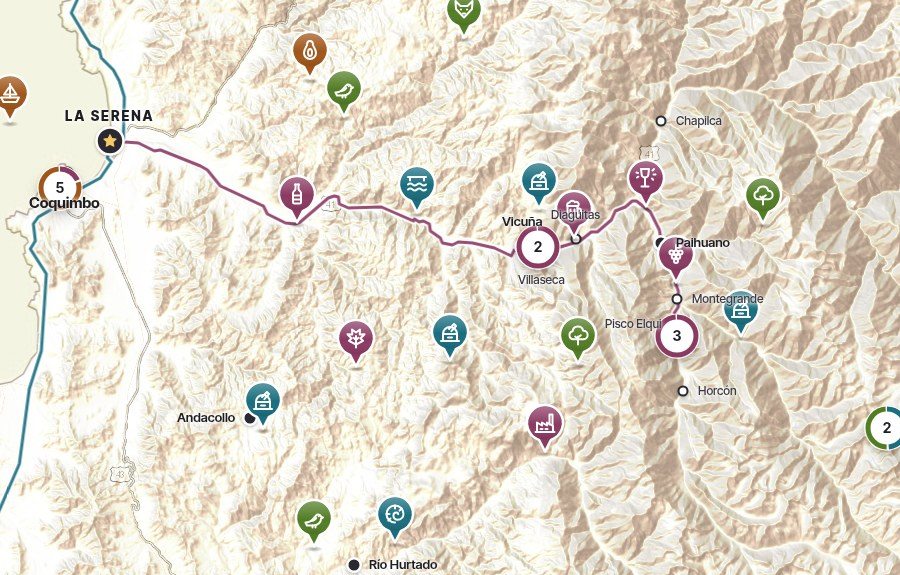
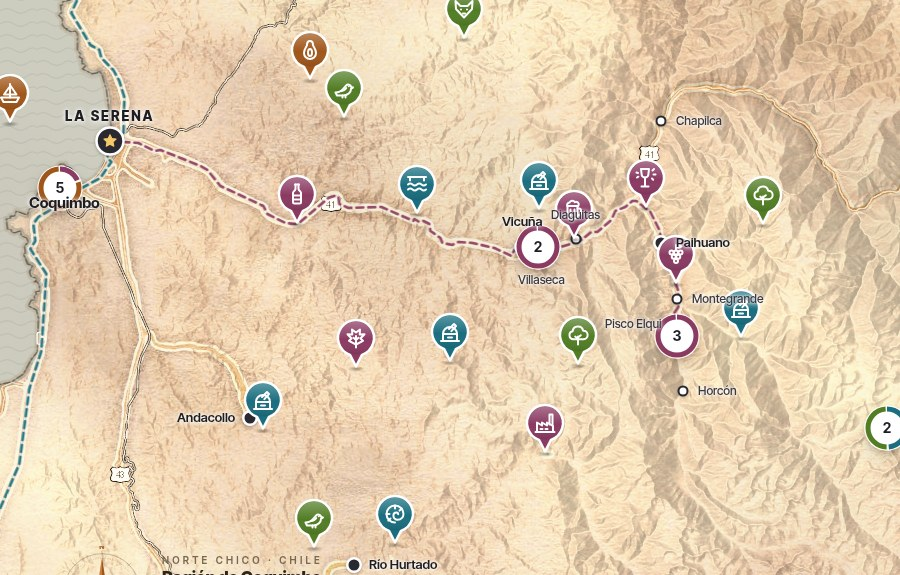
Fondo rústico

diff --git a/sea.js b/sea.js
@@ -1,0 +1,1 @@
+window.SEA=[[[-28.2832,-71.5175],[-29.1832,-71.4975],[-29.1848,-71.4982],[-29.1873,-71.4948],[-29.19,-71.4958],[-29.1937,-71.4911],[-29.1972,-71.4937],[-29.1993,-71.491],[-29.2019,-71.4913],[-29.2018,-71.4878],[-29.2034,-71.4862],[-29.206,-71.4869],[-29.2074,-71.4829],[-29.2103,-71.4853],[-29.2086,-71.4827],[-29.21,-71.4793],[-29.2165,-71.4715],[-29.2247,-71.4648],[-29.2342,-71.4632],[-29.2408,-71.4652],[-29.2433,-71.4639],[-29.2465,-71.4682],[-29.2492,-71.4691],[-29.2489,-71.4651],[-29.2507,-71.4613],[-29.2554,-71.4604],[-29.2564,-71.4585],[-29.2554,-71.4555],[-29.2569,-71.4535],[-29.2557,-71.4516],[-29.256,-71.4456],[-29.2535,-71.4423],[-29.2538,-71.4389],[-29.2718,-71.4083],[-29.2967,-71.3752],[-29.317,-71.3514],[-29.3317,-71.3369],[-29.3466,-71.3267],[-29.3523,-71.33],[-29.3577,-71.337],[-29.3574,-71.3359],[-29.3602,-71.3364],[-29.3624,-71.3291],[-29.3654,-71.3284],[-29.3757,-71.3339],[-29.3836,-71.3308],[-29.3877,-71.3348],[-29.3925,-71.3355],[-29.4011,-71.3404],[-29.4035,-71.3351],[-29.4,-71.3276],[-29.4027,-71.3249],[-29.405,-71.3245],[-29.4106,-71.3289],[-29.4162,-71.3271],[-29.4164,-71.3247],[-29.4222,-71.3248],[-29.422,-71.323],[-29.4157,-71.3197],[-29.4164,-71.3179],[-29.4147,-71.3127],[-29.4184,-71.3077],[-29.4242,-71.3099],[-29.4256,-71.3079],[-29.4282,-71.3087],[-29.4311,-71.3064],[-29.4358,-71.3059],[-29.4395,-71.3076],[-29.4423,-71.3057],[-29.4448,-71.3062],[-29.4488,-71.3035],[-29.4509,-71.3046],[-29.4497,-71.308],[-29.451,-71.3093],[-29.4495,-71.3119],[-29.4502,-71.3148],[-29.4482,-71.3167],[-29.4509,-71.3163],[-29.4558,-71.3107],[-29.4583,-71.3121],[-29.4616,-71.3093],[-29.4644,-71.3131],[-29.4635,-71.3183],[-29.4658,-71.3159],[-29.4685,-71.3161],[-29.4697,-71.313],[-29.4727,-71.312],[-29.4738,-71.3087],[-29.4759,-71.3083],[-29.4799,-71.3103],[-29.4787,-71.3132],[-29.4798,-71.3153],[-29.4832,-71.3146],[-29.4846,-71.3171],[-29.4888,-71.317],[-29.4923,-71.3248],[-29.4894,-71.3342],[-29.4912,-71.3364],[-29.5005,-71.335],[-29.5021,-71.3334],[-29.5012,-71.3312],[-29.5061,-71.3285],[-29.5073,-71.3306],[-29.5103,-71.3301],[-29.5104,-71.3314],[-29.5152,-71.3289],[-29.5186,-71.3313],[-29.5387,-71.3256],[-29.5425,-71.3279],[-29.5508,-71.3282],[-29.5547,-71.3346],[-29.557,-71.3267],[-29.5603,-71.3262],[-29.5625,-71.3233],[-29.568,-71.3252],[-29.5683,-71.3235],[-29.5724,-71.3226],[-29.5791,-71.3184],[-29.5855,-71.3091],[-29.5903,-71.3108],[-29.591,-71.3058],[-29.5974,-71.3007],[-29.5989,-71.2975],[-29.5983,-71.2948],[-29.6014,-71.2921],[-29.6072,-71.2886],[-29.6195,-71.2869],[-29.6222,-71.2879],[-29.6233,-71.2958],[-29.627,-71.2974],[-29.6281,-71.3014],[-29.6321,-71.3017],[-29.6341,-71.3001],[-29.6353,-71.3023],[-29.6389,-71.3027],[-29.6406,-71.3064],[-29.6446,-71.3069],[-29.6442,-71.3136],[-29.6415,-71.3171],[-29.6453,-71.3176],[-29.647,-71.3203],[-29.6482,-71.3169],[-29.6475,-71.3136],[-29.6491,-71.3118],[-29.6555,-71.314],[-29.6563,-71.3169],[-29.6593,-71.3149],[-29.6592,-71.3161],[-29.6599,-71.3151],[-29.6628,-71.3171],[-29.666,-71.3169],[-29.6661,-71.3183],[-29.6677,-71.3155],[-29.6692,-71.3157],[-29.6727,-71.3222],[-29.6776,-71.3193],[-29.6819,-71.321],[-29.6843,-71.3197],[-29.691,-71.3243],[-29.6913,-71.3223],[-29.6986,-71.3184],[-29.702,-71.322],[-29.701,-71.3279],[-29.7027,-71.3269],[-29.7061,-71.3302],[-29.7103,-71.3297],[-29.7114,-71.3263],[-29.7149,-71.3242],[-29.7219,-71.3243],[-29.7256,-71.3285],[-29.7335,-71.3261],[-29.7337,-71.3281],[-29.7376,-71.3294],[-29.7408,-71.3398],[-29.7438,-71.3397],[-29.7447,-71.3419],[-29.7466,-71.3423],[-29.7504,-71.3408],[-29.7541,-71.3415],[-29.7555,-71.3453],[-29.7587,-71.3437],[-29.761,-71.3399],[-29.7677,-71.3411],[-29.7701,-71.3398],[-29.7695,-71.3379],[-29.7719,-71.3363],[-29.7725,-71.3332],[-29.7743,-71.3338],[-29.7741,-71.3312],[-29.7764,-71.3272],[-29.7746,-71.322],[-29.778,-71.321],[-29.7787,-71.3191],[-29.7913,-71.3204],[-29.7944,-71.3192],[-29.7949,-71.3175],[-29.7983,-71.3192],[-29.8022,-71.3153],[-29.8062,-71.3162],[-29.8082,-71.3124],[-29.8114,-71.3139],[-29.8127,-71.312],[-29.814,-71.3132],[-29.8143,-71.3095],[-29.8164,-71.3082],[-29.8199,-71.3119],[-29.8229,-71.3083],[-29.8246,-71.2999],[-29.8261,-71.2989],[-29.8249,-71.2921],[-29.8224,-71.2892],[-29.8285,-71.2846],[-29.8449,-71.2787],[-29.8936,-71.2731],[-29.916,-71.2756],[-29.9276,-71.2792],[-29.9415,-71.2876],[-29.9508,-71.2975],[-29.9585,-71.3135],[-29.96,-71.3212],[-29.9587,-71.3347],[-29.9337,-71.3356],[-29.9327,-71.3377],[-29.9347,-71.34],[-29.9337,-71.3429],[-29.9366,-71.3476],[-29.9395,-71.3487],[-29.9395,-71.3528],[-29.9438,-71.3525],[-29.9507,-71.3581],[-29.9499,-71.3616],[-29.952,-71.3618],[-29.9524,-71.365],[-29.9557,-71.3612],[-29.96,-71.362],[-29.961,-71.3637],[-29.9616,-71.3624],[-29.9647,-71.3628],[-29.967,-71.3576],[-29.9659,-71.3537],[-29.9674,-71.3498],[-29.9726,-71.3536],[-29.9693,-71.3507],[-29.974,-71.3471],[-29.9802,-71.3508],[-29.9838,-71.3572],[-29.9826,-71.3608],[-29.9838,-71.3618],[-29.9836,-71.3654],[-29.969,-71.3686],[-29.967,-71.3728],[-29.9737,-71.3768],[-29.9746,-71.3793],[-29.9856,-71.379],[-29.9868,-71.3853],[-29.9939,-71.3877],[-29.9944,-71.3893],[-29.9897,-71.4035],[-29.9956,-71.4054],[-29.9952,-71.4111],[-29.9959,-71.4101],[-29.9982,-71.4118],[-29.999,-71.4169],[-30.0106,-71.4153],[-30.0117,-71.4097],[-30.0148,-71.4093],[-30.0161,-71.4061],[-30.0135,-71.3976],[-30.0193,-71.3962],[-30.0221,-71.3886],[-30.0263,-71.3868],[-30.0306,-71.3913],[-30.0389,-71.3909],[-30.0411,-71.3935],[-30.0443,-71.3905],[-30.0469,-71.3908],[-30.0499,-71.3873],[-30.0522,-71.3875],[-30.0545,-71.3815],[-30.0582,-71.3818],[-30.0624,-71.3847],[-30.0653,-71.384],[-30.0678,-71.3821],[-30.0686,-71.3772],[-30.0714,-71.3759],[-30.0732,-71.3771],[-30.0722,-71.3782],[-30.0743,-71.3787],[-30.0736,-71.3745],[-30.0784,-71.3714],[-30.0847,-71.3716],[-30.0856,-71.3763],[-30.0877,-71.3754],[-30.0903,-71.3784],[-30.0954,-71.3777],[-30.0948,-71.3823],[-30.096,-71.3841],[-30.1019,-71.3863],[-30.1039,-71.3837],[-30.1045,-71.3779],[-30.1069,-71.3752],[-30.1163,-71.3725],[-30.1409,-71.3724],[-30.1566,-71.3743],[-30.1653,-71.382],[-30.1678,-71.3821],[-30.1831,-71.3937],[-30.1928,-71.4101],[-30.1956,-71.4301],[-30.1874,-71.4339],[-30.1866,-71.4364],[-30.183,-71.4393],[-30.1816,-71.4437],[-30.1731,-71.4447],[-30.1655,-71.4486],[-30.1748,-71.4508],[-30.1749,-71.4555],[-30.1786,-71.4561],[-30.1783,-71.462],[-30.1826,-71.4578],[-30.1864,-71.4596],[-30.1909,-71.4569],[-30.1955,-71.4618],[-30.1965,-71.4685],[-30.199,-71.4697],[-30.2005,-71.4725],[-30.1983,-71.4762],[-30.1997,-71.48],[-30.2058,-71.4759],[-30.2083,-71.4775],[-30.2085,-71.4816],[-30.2106,-71.4828],[-30.2138,-71.4793],[-30.2198,-71.4823],[-30.2198,-71.4787],[-30.2229,-71.4768],[-30.2292,-71.4794],[-30.2321,-71.4777],[-30.238,-71.4795],[-30.2405,-71.4777],[-30.2433,-71.4786],[-30.2494,-71.4837],[-30.2529,-71.4894],[-30.2534,-71.4935],[-30.2511,-71.4945],[-30.2482,-71.5016],[-30.2502,-71.507],[-30.253,-71.5074],[-30.2537,-71.5095],[-30.2566,-71.5066],[-30.2551,-71.5016],[-30.256,-71.4968],[-30.2633,-71.4947],[-30.272,-71.4982],[-30.2801,-71.5057],[-30.2884,-71.5175],[-30.2975,-71.5398],[-30.3011,-71.5598],[-30.3028,-71.5815],[-30.3021,-71.5957],[-30.2984,-71.6074],[-30.2897,-71.6083],[-30.2848,-71.6114],[-30.2792,-71.6099],[-30.2719,-71.6157],[-30.2692,-71.6144],[-30.2583,-71.6184],[-30.2551,-71.6172],[-30.2452,-71.6193],[-30.2425,-71.6249],[-30.2373,-71.6273],[-30.2418,-71.6298],[-30.2429,-71.6329],[-30.2478,-71.6361],[-30.2488,-71.6351],[-30.2577,-71.6401],[-30.2604,-71.6389],[-30.2634,-71.6412],[-30.2647,-71.6454],[-30.2672,-71.6477],[-30.2668,-71.6495],[-30.2686,-71.6492],[-30.2736,-71.6533],[-30.2819,-71.6544],[-30.2874,-71.6578],[-30.2924,-71.6563],[-30.3053,-71.6579],[-30.3057,-71.6635],[-30.3109,-71.6673],[-30.3134,-71.6651],[-30.3141,-71.6663],[-30.3222,-71.6652],[-30.3241,-71.6666],[-30.328,-71.6653],[-30.335,-71.6662],[-30.3397,-71.6707],[-30.3414,-71.6692],[-30.3438,-71.6711],[-30.3455,-71.6696],[-30.3461,-71.6724],[-30.3521,-71.6745],[-30.3466,-71.6787],[-30.3476,-71.6801],[-30.3554,-71.6815],[-30.3569,-71.6787],[-30.3592,-71.6791],[-30.361,-71.6717],[-30.3652,-71.6692],[-30.3672,-71.671],[-30.3672,-71.6756],[-30.3691,-71.6737],[-30.3726,-71.6784],[-30.3815,-71.6797],[-30.382,-71.6813],[-30.3853,-71.6786],[-30.3858,-71.6832],[-30.3868,-71.6821],[-30.3899,-71.6833],[-30.391,-71.681],[-30.3935,-71.6835],[-30.3945,-71.6811],[-30.3997,-71.6876],[-30.4037,-71.6877],[-30.4049,-71.6905],[-30.4093,-71.6896],[-30.4098,-71.6837],[-30.4117,-71.6844],[-30.4129,-71.6818],[-30.4155,-71.6817],[-30.4322,-71.687],[-30.4371,-71.6902],[-30.437,-71.6888],[-30.4396,-71.6876],[-30.4429,-71.6878],[-30.4465,-71.6904],[-30.4505,-71.6887],[-30.4581,-71.691],[-30.4621,-71.6878],[-30.4641,-71.6893],[-30.4653,-71.6884],[-30.4679,-71.6914],[-30.4731,-71.6931],[-30.4778,-71.6998],[-30.4786,-71.6957],[-30.4871,-71.6974],[-30.4884,-71.6937],[-30.4924,-71.694],[-30.4936,-71.6913],[-30.4973,-71.689],[-30.5018,-71.6909],[-30.5074,-71.6897],[-30.5088,-71.6916],[-30.5188,-71.6948],[-30.5258,-71.6923],[-30.5444,-71.6942],[-30.547,-71.6963],[-30.5505,-71.7046],[-30.5549,-71.7057],[-30.558,-71.7031],[-30.5648,-71.7082],[-30.5696,-71.7068],[-30.5725,-71.7093],[-30.5788,-71.711],[-30.5853,-71.7098],[-30.5871,-71.7119],[-30.5889,-71.7107],[-30.5931,-71.7117],[-30.5963,-71.7161],[-30.5983,-71.716],[-30.598,-71.7145],[-30.5993,-71.7139],[-30.6017,-71.7175],[-30.6109,-71.7115],[-30.6244,-71.7093],[-30.6263,-71.7124],[-30.6294,-71.7093],[-30.6372,-71.7072],[-30.6394,-71.7117],[-30.6416,-71.7114],[-30.65,-71.716],[-30.6528,-71.7126],[-30.6543,-71.7142],[-30.658,-71.712],[-30.6621,-71.7122],[-30.6626,-71.7089],[-30.668,-71.7081],[-30.6761,-71.7005],[-30.6802,-71.7025],[-30.6836,-71.7006],[-30.685,-71.7014],[-30.6858,-71.6991],[-30.6959,-71.6993],[-30.6994,-71.6976],[-30.7011,-71.6994],[-30.7019,-71.7055],[-30.7044,-71.7067],[-30.7064,-71.7051],[-30.7081,-71.7074],[-30.7137,-71.7078],[-30.7146,-71.71],[-30.7136,-71.7121],[-30.7159,-71.715],[-30.7167,-71.7135],[-30.7188,-71.7143],[-30.7182,-71.7114],[-30.7193,-71.7104],[-30.7222,-71.7112],[-30.7245,-71.7089],[-30.7257,-71.71],[-30.7265,-71.7072],[-30.7289,-71.7084],[-30.7298,-71.701],[-30.7288,-71.7002],[-30.7318,-71.6986],[-30.7347,-71.6985],[-30.7351,-71.7012],[-30.737,-71.7026],[-30.7398,-71.7013],[-30.7486,-71.7034],[-30.7496,-71.7054],[-30.7533,-71.7016],[-30.7556,-71.7042],[-30.7573,-71.7032],[-30.7613,-71.7046],[-30.7655,-71.7077],[-30.7678,-71.7041],[-30.7727,-71.707],[-30.7853,-71.7054],[-30.7904,-71.7078],[-30.7921,-71.7046],[-30.7946,-71.7045],[-30.799,-71.7012],[-30.8066,-71.7037],[-30.8077,-71.7027],[-30.807,-71.7006],[-30.8134,-71.6977],[-30.8168,-71.6984],[-30.8215,-71.6954],[-30.8289,-71.6975],[-30.8339,-71.6946],[-30.8365,-71.6961],[-30.8451,-71.694],[-30.8497,-71.6886],[-30.8528,-71.6895],[-30.8599,-71.685],[-30.8661,-71.6848],[-30.8699,-71.6822],[-30.878,-71.682],[-30.8785,-71.6855],[-30.8826,-71.6885],[-30.8854,-71.6856],[-30.8849,-71.6818],[-30.887,-71.6794],[-30.8911,-71.6813],[-30.8981,-71.6782],[-30.9015,-71.6817],[-30.9097,-71.6841],[-30.9182,-71.6821],[-30.9215,-71.6835],[-30.9235,-71.6804],[-30.9279,-71.6813],[-30.9307,-71.6796],[-30.9309,-71.6761],[-30.9286,-71.6724],[-30.9302,-71.6705],[-30.9412,-71.6655],[-30.9471,-71.6656],[-30.9494,-71.6625],[-30.9518,-71.6639],[-30.9574,-71.663],[-30.9582,-71.6598],[-30.9611,-71.6605],[-30.9691,-71.6536],[-30.9689,-71.6519],[-30.9742,-71.6523],[-30.9763,-71.6493],[-30.979,-71.6493],[-30.9835,-71.6526],[-30.9879,-71.6525],[-30.9892,-71.6492],[-30.991,-71.6513],[-30.9944,-71.6517],[-31.0008,-71.6481],[-31.0045,-71.6507],[-31.0069,-71.647],[-31.0115,-71.6458],[-31.0194,-71.6541],[-31.0214,-71.6538],[-31.0248,-71.6612],[-31.0285,-71.6625],[-31.032,-71.6617],[-31.0351,-71.665],[-31.0363,-71.6632],[-31.0403,-71.6648],[-31.0442,-71.6637],[-31.0547,-71.6646],[-31.0619,-71.6618],[-31.0683,-71.6638],[-31.0722,-71.6612],[-31.0746,-71.6629],[-31.0816,-71.6587],[-31.0819,-71.6549],[-31.084,-71.6524],[-31.0887,-71.654],[-31.0941,-71.6525],[-31.0988,-71.6578],[-31.0983,-71.6551],[-31.1016,-71.6516],[-31.1059,-71.6528],[-31.1082,-71.6503],[-31.1105,-71.6516],[-31.1119,-71.6602],[-31.1135,-71.6585],[-31.1192,-71.6608],[-31.122,-71.6554],[-31.124,-71.6589],[-31.1285,-71.6581],[-31.1315,-71.6622],[-31.1368,-71.6645],[-31.1373,-71.6664],[-31.1423,-71.6634],[-31.1461,-71.6632],[-31.1448,-71.6674],[-31.1429,-71.6688],[-31.1442,-71.6704],[-31.1481,-71.6682],[-31.1511,-71.6684],[-31.16,-71.6625],[-31.1623,-71.6627],[-31.1638,-71.6676],[-31.165,-71.6679],[-31.1815,-71.6618],[-31.1854,-71.6578],[-31.1876,-71.6579],[-31.1881,-71.6604],[-31.1894,-71.6601],[-31.1907,-71.6572],[-31.1894,-71.6555],[-31.1915,-71.6547],[-31.1914,-71.6533],[-31.1937,-71.6542],[-31.1937,-71.652],[-31.1959,-71.6522],[-31.198,-71.6499],[-31.2021,-71.6498],[-31.2023,-71.6532],[-31.2047,-71.6529],[-31.2117,-71.6486],[-31.2153,-71.6416],[-31.2176,-71.6428],[-31.2179,-71.6471],[-31.2208,-71.6471],[-31.222,-71.6444],[-31.2303,-71.6415],[-31.2325,-71.6433],[-31.2332,-71.6407],[-31.2405,-71.6414],[-31.2448,-71.6396],[-31.2512,-71.6342],[-31.254,-71.6346],[-31.2557,-71.6321],[-31.2608,-71.6347],[-31.2609,-71.6324],[-31.2635,-71.6315],[-31.2647,-71.6334],[-31.2709,-71.6352],[-31.2731,-71.6388],[-31.2841,-71.6388],[-31.2846,-71.6354],[-31.2883,-71.6339],[-31.293,-71.6369],[-31.2971,-71.6342],[-31.2994,-71.638],[-31.3013,-71.6382],[-31.3019,-71.6361],[-31.3034,-71.6373],[-31.3045,-71.6351],[-31.3067,-71.6356],[-31.3056,-71.6326],[-31.3083,-71.6322],[-31.3092,-71.628],[-31.3112,-71.6276],[-31.3101,-71.6257],[-31.3131,-71.6263],[-31.3127,-71.6239],[-31.3157,-71.6231],[-31.3157,-71.6203],[-31.319,-71.6193],[-31.3206,-71.6212],[-31.3243,-71.6218],[-31.3252,-71.6192],[-31.3241,-71.6174],[-31.3263,-71.6148],[-31.3343,-71.6175],[-31.3358,-71.6164],[-31.3365,-71.6185],[-31.3396,-71.6177],[-31.3418,-71.6196],[-31.3463,-71.6188],[-31.3492,-71.6215],[-31.3518,-71.6215],[-31.3553,-71.6185],[-31.3625,-71.621],[-31.3637,-71.6194],[-31.3675,-71.6198],[-31.3682,-71.6181],[-31.3694,-71.6201],[-31.3705,-71.6182],[-31.3711,-71.6194],[-31.3729,-71.6182],[-31.3738,-71.6207],[-31.3781,-71.6185],[-31.3804,-71.6207],[-31.383,-71.6172],[-31.385,-71.6178],[-31.3853,-71.6156],[-31.3881,-71.6181],[-31.3904,-71.6177],[-31.3911,-71.6197],[-31.3917,-71.6173],[-31.3933,-71.6186],[-31.3941,-71.6167],[-31.3956,-71.6176],[-31.3961,-71.6152],[-31.4027,-71.6119],[-31.4015,-71.6106],[-31.4033,-71.6037],[-31.4062,-71.6062],[-31.4101,-71.6038],[-31.4129,-71.6065],[-31.4151,-71.605],[-31.4165,-71.6064],[-31.4165,-71.6049],[-31.419,-71.6037],[-31.4196,-71.6069],[-31.4211,-71.6062],[-31.4224,-71.6031],[-31.4244,-71.6031],[-31.4225,-71.5933],[-31.4286,-71.5995],[-31.4316,-71.5996],[-31.4335,-71.5979],[-31.4346,-71.6005],[-31.4415,-71.5962],[-31.4447,-71.5906],[-31.4479,-71.5904],[-31.4495,-71.588],[-31.4563,-71.5901],[-31.457,-71.5938],[-31.4576,-71.5918],[-31.4607,-71.5924],[-31.4638,-71.5874],[-31.4663,-71.5881],[-31.4685,-71.5861],[-31.4722,-71.5872],[-31.4731,-71.5847],[-31.4766,-71.5856],[-31.4769,-71.5842],[-31.4812,-71.5833],[-31.483,-71.5798],[-31.4823,-71.5783],[-31.4868,-71.5752],[-31.4916,-71.5773],[-31.493,-71.5736],[-31.5003,-71.5696],[-31.5029,-71.5693],[-31.5056,-71.5715],[-31.5074,-71.5697],[-31.5091,-71.5709],[-31.5117,-71.5698],[-31.5119,-71.5734],[-31.5163,-71.5714],[-31.5202,-71.5762],[-31.5264,-71.574],[-31.5271,-71.5712],[-31.529,-71.5735],[-31.5323,-71.5728],[-31.5325,-71.5711],[-31.5365,-71.5721],[-31.5402,-71.5685],[-31.5441,-71.5709],[-31.5464,-71.5698],[-31.551,-71.5731],[-31.5591,-71.5695],[-31.5644,-71.5699],[-31.566,-71.5723],[-31.5687,-71.5708],[-31.5734,-71.5731],[-31.5838,-71.5728],[-31.5863,-71.5745],[-31.5869,-71.5779],[-31.5893,-71.5807],[-31.5945,-71.5817],[-31.5963,-71.5778],[-31.6026,-71.5733],[-31.6063,-71.5721],[-31.6091,-71.5746],[-31.612,-71.5691],[-31.6237,-71.5578],[-31.6271,-71.557],[-31.6285,-71.5599],[-31.6293,-71.5588],[-31.6309,-71.5602],[-31.6307,-71.5568],[-31.6335,-71.558],[-31.6348,-71.5553],[-31.6377,-71.5554],[-31.6414,-71.5522],[-31.6459,-71.5537],[-31.648,-71.5583],[-31.651,-71.5556],[-31.6568,-71.5553],[-31.6592,-71.5509],[-31.6665,-71.5557],[-31.666,-71.5505],[-31.6696,-71.5512],[-31.6703,-71.5498],[-31.6736,-71.5518],[-31.6778,-71.5487],[-31.6771,-71.5469],[-31.6825,-71.5477],[-31.6841,-71.5457],[-31.6877,-71.5458],[-31.6896,-71.5432],[-31.6919,-71.5468],[-31.6968,-71.5435],[-31.6991,-71.545],[-31.701,-71.543],[-31.7012,-71.5451],[-31.7025,-71.5435],[-31.7087,-71.5439],[-31.7103,-71.5412],[-31.712,-71.5433],[-31.717,-71.5439],[-31.7177,-71.5453],[-31.718,-71.5438],[-31.7186,-71.5452],[-31.7189,-71.5436],[-31.72,-71.5442],[-31.7198,-71.5427],[-31.7272,-71.542],[-31.7302,-71.5449],[-31.7343,-71.5442],[-31.739,-71.5461],[-31.7401,-71.545],[-31.7385,-71.538],[-31.7407,-71.5378],[-31.7415,-71.5358],[-31.7438,-71.5369],[-31.7462,-71.5353],[-31.7443,-71.5337],[-31.745,-71.5285],[-31.7485,-71.53],[-31.752,-71.5275],[-31.7511,-71.5227],[-31.7536,-71.5186],[-31.755,-71.5117],[-31.7602,-71.5068],[-31.7643,-71.508],[-31.7696,-71.5051],[-31.7731,-71.5069],[-31.7763,-71.5059],[-31.7824,-71.5103],[-31.7849,-71.5094],[-31.7853,-71.5143],[-31.7893,-71.5141],[-31.7895,-71.5159],[-31.7922,-71.5176],[-31.7923,-71.52],[-31.797,-71.516],[-31.8065,-71.5182],[-31.8121,-71.5233],[-31.8124,-71.5272],[-31.816,-71.5272],[-31.8165,-71.5288],[-31.823,-71.5299],[-31.8256,-71.5323],[-31.8281,-71.5353],[-31.8298,-71.5421],[-31.8367,-71.5417],[-31.8375,-71.543],[-31.8416,-71.5419],[-31.8465,-71.5479],[-31.8466,-71.5517],[-31.8432,-71.5571],[-31.8486,-71.5597],[-31.851,-71.5594],[-31.8521,-71.5572],[-31.854,-71.5582],[-31.8546,-71.5563],[-31.853,-71.555],[-31.8552,-71.5517],[-31.8538,-71.5478],[-31.8547,-71.54],[-31.8529,-71.534],[-31.8541,-71.5328],[-31.8538,-71.527],[-31.8496,-71.5261],[-31.8492,-71.5197],[-31.8526,-71.516],[-31.8625,-71.5188],[-31.8612,-71.5129],[-31.8623,-71.5127],[-31.8609,-71.5112],[-31.8709,-71.5006],[-31.8818,-71.4986],[-31.8846,-71.5035],[-31.8896,-71.4963],[-31.8981,-71.4962],[-31.9097,-71.5051],[-31.9101,-71.508],[-31.9079,-71.5089],[-31.9092,-71.5103],[-31.9083,-71.5154],[-31.9095,-71.5176],[-31.9122,-71.5183],[-31.9144,-71.5168],[-31.9152,-71.5184],[-31.9169,-71.5175],[-31.9254,-71.5209],[-31.9295,-71.5185],[-31.9319,-71.5134],[-31.9342,-71.5158],[-31.9382,-71.5161],[-31.9389,-71.5181],[-31.9415,-71.5173],[-31.9438,-71.5218],[-31.9481,-71.5245],[-31.9493,-71.5272],[-31.9508,-71.5254],[-31.9499,-71.5179],[-31.9518,-71.516],[-31.9477,-71.5103],[-31.9487,-71.5032],[-31.9567,-71.4979],[-31.9591,-71.4981],[-31.9596,-71.5008],[-31.9622,-71.502],[-31.9626,-71.5006],[-31.9634,-71.5022],[-31.9641,-71.4979],[-31.9667,-71.4992],[-31.965,-71.4938],[-31.9668,-71.4944],[-31.9663,-71.4925],[-31.9684,-71.4907],[-31.971,-71.494],[-31.9728,-71.4935],[-31.9729,-71.4953],[-31.9741,-71.4945],[-31.9753,-71.4958],[-31.9738,-71.4979],[-31.9749,-71.4977],[-31.9752,-71.5],[-31.9789,-71.4993],[-31.9784,-71.5013],[-31.981,-71.5055],[-31.9829,-71.506],[-31.9827,-71.5075],[-31.9839,-71.5064],[-31.9846,-71.5088],[-31.9867,-71.5081],[-31.9921,-71.5118],[-31.9961,-71.5117],[-31.9958,-71.514],[-32.001,-71.5169],[-31.9995,-71.5194],[-32.0002,-71.5212],[-32.0036,-71.5221],[-32.0043,-71.5238],[-32.0099,-71.5208],[-32.0095,-71.5186],[-32.0114,-71.518],[-32.0095,-71.5158],[-32.0111,-71.5118],[-32.0143,-71.5125],[-32.0168,-71.5103],[-32.0237,-71.51],[-32.0276,-71.5182],[-32.0322,-71.5193],[-32.034,-71.5219],[-32.0333,-71.5247],[-32.0354,-71.5244],[-32.0377,-71.5276],[-32.0419,-71.5257],[-32.0434,-71.5267],[-32.0465,-71.5201],[-32.0516,-71.519],[-32.0581,-71.5238],[-32.061,-71.5222],[-32.0647,-71.5248],[-32.0657,-71.5228],[-32.069,-71.5251],[-32.076,-71.523],[-32.0803,-71.5239],[-32.0848,-71.5285],[-32.0884,-71.5265],[-32.0952,-71.5287],[-32.0992,-71.5238],[-32.102,-71.5267],[-32.1045,-71.5263],[-32.1046,-71.5297],[-32.1066,-71.5314],[-32.1089,-71.5288],[-32.1127,-71.5284],[-32.1125,-71.5243],[-32.1111,-71.5236],[-32.112,-71.5222],[-32.1102,-71.5213],[-32.1113,-71.517],[-32.1165,-71.5133],[-32.1214,-71.5127],[-32.1306,-71.5152],[-32.1357,-71.5212],[-32.1373,-71.5278],[-32.1326,-71.5333],[-32.1355,-71.5378],[-32.1382,-71.5379],[-32.1378,-71.534],[-32.1439,-71.5344],[-32.1459,-71.5317],[-32.1545,-71.5277],[-32.1566,-71.531],[-32.1615,-71.5318],[-32.1633,-71.5339],[-32.1682,-71.5302],[-32.1717,-71.532],[-32.174,-71.5364],[-32.1767,-71.5363],[-32.1774,-71.5415],[-33.0774,-71.5615],[-33.0774,-76],[-28.2832,-76]],[[-29.2491,-71.5396],[-29.253,-71.5434],[-29.2528,-71.5448],[-29.2557,-71.5463],[-29.2669,-71.5442],[-29.2718,-71.5472],[-29.2739,-71.5461],[-29.2773,-71.5499],[-29.2834,-71.5495],[-29.2848,-71.5453],[-29.2826,-71.5438],[-29.2837,-71.5414],[-29.2811,-71.5394],[-29.276,-71.5413],[-29.2708,-71.5403],[-29.2679,-71.5375],[-29.2609,-71.5393],[-29.2595,-71.5361],[-29.2577,-71.5372],[-29.2548,-71.5353],[-29.2512,-71.536],[-29.2506,-71.5391],[-29.2491,-71.5396]],[[-29.2286,-71.5302],[-29.2291,-71.5332],[-29.2345,-71.531],[-29.2333,-71.5336],[-29.2348,-71.535],[-29.236,-71.5284],[-29.2379,-71.5283],[-29.2405,-71.5233],[-29.2428,-71.5223],[-29.2381,-71.5207],[-29.2386,-71.5246],[-29.2337,-71.5259],[-29.2318,-71.53],[-29.2286,-71.5302]],[[-29.2522,-71.4716],[-29.2542,-71.4738],[-29.2566,-71.4838],[-29.2596,-71.4863],[-29.2667,-71.4874],[-29.2689,-71.4829],[-29.2648,-71.473],[-29.2586,-71.4729],[-29.2564,-71.4703],[-29.2522,-71.4716]],[[-29.5798,-71.5334],[-29.5803,-71.536],[-29.5864,-71.5426],[-29.5898,-71.5435],[-29.5924,-71.5413],[-29.5928,-71.5382],[-29.5889,-71.5345],[-29.5842,-71.5325],[-29.5798,-71.5334]],[[-29.5419,-71.3332],[-29.5404,-71.3358],[-29.5432,-71.3424],[-29.546,-71.3411],[-29.5499,-71.3426],[-29.5473,-71.3341],[-29.5419,-71.3332]],[[-29.4112,-71.3544],[-29.4107,-71.3603],[-29.4144,-71.3602],[-29.417,-71.3583],[-29.4131,-71.3538],[-29.4112,-71.3544]],[[-31.9061,-71.5251],[-31.9055,-71.5294],[-31.9072,-71.5305],[-31.9087,-71.5276],[-31.9061,-71.5251]],[[-31.8223,-71.545],[-31.821,-71.547],[-31.824,-71.5485],[-31.8246,-71.5458],[-31.8223,-71.545]],[[-29.555,-71.5465],[-29.5508,-71.5487],[-29.5485,-71.5525],[-29.5552,-71.5513],[-29.555,-71.5465]],[[-29.4844,-71.3335],[-29.4862,-71.3346],[-29.4872,-71.3327],[-29.4858,-71.332],[-29.4844,-71.3335]]];

diff --git a/app.js b/app.js
@@ -63,22 +63,41 @@ function toast(msg,ms){var el=$('toast');el.textContent=msg;el.classList.add('sh
    ========================================================= */
 var map=L.map('map',{zoomControl:false,attributionControl:false,minZoom:6,maxZoom:17,zoomSnap:.25,zoomDelta:.5,wheelPxPerZoomLevel:140,wheelDebounceTime:30,
  inertia:true,inertiaDeceleration:2400,inertiaMaxSpeed:2200,easeLinearity:.18,zoomAnimation:!REDUCED,markerZoomAnimation:!REDUCED,fadeAnimation:!REDUCED,bounceAtZoomLimits:false});
-map.createPane('hill');map.getPane('hill').classList.add('hill-pane');map.getPane('hill').style.zIndex=250;map.getPane('hill').style.pointerEvents='none';
-map.createPane('mask');map.getPane('mask').style.zIndex=300;map.getPane('mask').style.pointerEvents='none';
-map.createPane('roads');map.getPane('roads').style.zIndex=310;map.getPane('roads').style.pointerEvents='none';map.getPane('roads').classList.add('roads-pane');
+function pane(n,z,cls){var p=map.createPane(n);p.style.zIndex=z;p.style.pointerEvents='none';if(cls)p.classList.add(cls);return p}
+pane('hill',250,'hill-pane');pane('sea',258,'sea-pane');pane('paper',290,'paper-pane');pane('mask',300,'mask-pane');pane('roads',310,'roads-pane');
 map.createPane('routes');map.getPane('routes').style.zIndex=420;
 map.createPane('towns');map.getPane('towns').style.zIndex=590;
+/* ---- Rustic base: watercolour paper (Stamen Watercolor archive) + tinted hillshade + paper grain ---- */
 var ESRI='https://services.arcgisonline.com/arcgis/rest/services/';
-var terrain=L.tileLayer(ESRI+'World_Terrain_Base/MapServer/tile/{z}/{y}/{x}',{maxNativeZoom:9,maxZoom:10.75,className:'tiles-relief',keepBuffer:4}).addTo(map);
-L.tileLayer(ESRI+'Elevation/World_Hillshade/MapServer/tile/{z}/{y}/{x}',{pane:'hill',maxNativeZoom:13,maxZoom:10.75,keepBuffer:4}).addTo(map);
-L.tileLayer(ESRI+'Reference/World_Transportation/MapServer/tile/{z}/{y}/{x}',{pane:'roads',maxNativeZoom:11,maxZoom:10.75}).addTo(map);
-L.tileLayer(ESRI+'World_Topo_Map/MapServer/tile/{z}/{y}/{x}',{minZoom:11,maxZoom:19,maxNativeZoom:16,className:'tiles-topo',keepBuffer:4}).addTo(map);
-
+var WC='https://watercolormaps.collection.cooperhewitt.org/tile/watercolor/{z}/{x}/{y}.jpg';
+var terrain=L.tileLayer(WC,{maxNativeZoom:15,maxZoom:19,className:'tiles-wc',keepBuffer:4,crossOrigin:false}).addTo(map);
+var fallback=null,wcErr=0;
+terrain.on('tileerror',function(){if(++wcErr>3&&!fallback){fallback=L.tileLayer(ESRI+'World_Terrain_Base/MapServer/tile/{z}/{y}/{x}',{maxNativeZoom:9,maxZoom:19,className:'tiles-relief',keepBuffer:4,zIndex:0}).addTo(map)}});
+L.tileLayer(ESRI+'Elevation/World_Hillshade/MapServer/tile/{z}/{y}/{x}',{pane:'hill',maxNativeZoom:15,maxZoom:19,keepBuffer:4}).addTo(map);
+L.tileLayer(ESRI+'Reference/World_Transportation/MapServer/tile/{z}/{y}/{x}',{pane:'roads',minZoom:9,maxNativeZoom:16,maxZoom:19,className:'tiles-roads'}).addTo(map);
+/* paper grain: one viewport-sized element inside the map pane (multiplies tiles, stays under pins) */
+var paperEl=L.DomUtil.create('div','paper-grain',map.getPane('paper'));
+function placePaper(){if(!map._loaded)return;var tl=map.containerPointToLayerPoint([0,0]);L.DomUtil.setPosition(paperEl,tl);var o=map.getPixelOrigin();paperEl.style.backgroundPosition=(-(o.x+tl.x)%512)+'px '+(-(o.y+tl.y)%512)+'px'}
+map.on('move zoomend resize viewreset',placePaper);
+/* live scale bar in the cartouche */
+function updScale(){if(!map._loaded)return;var el=document.querySelector('.ct-s');if(!el)return;var y=map.getSize().y/2,a=map.containerPointToLatLng([0,y]),b=map.containerPointToLatLng([120,y]);var m=a.distanceTo(b);
+ var k=Math.pow(10,Math.floor(Math.log10(m))),n=[5,2,1].map(function(f){return f*k}).filter(function(v){return v<=m})[0]||k;var w=Math.round(120*n/m);
+ var f=function(v){return v>=1000?(v/1000)+'':(v)+''},u=n>=1000?' km':' m';el.style.setProperty('--sw',w+'px');var bs=el.querySelectorAll('b');bs[0].textContent='0';bs[1].textContent=f(n/2);bs[2].textContent=f(n)+u}
+map.on('zoomend',updScale);
 // region mask + outline
 var polys=REGION.type==='MultiPolygon'?REGION.coordinates:[REGION.coordinates];
 var holes=polys.map(function(pg){return pg[0].map(function(c){return [c[1],c[0]]})});
-L.polygon([[[-10,-90],[-10,-40],[-50,-40],[-50,-90]]].concat(holes),{pane:'mask',stroke:false,fillColor:'#F6F2EA',fillOpacity:.6,interactive:false}).addTo(map);
-L.polygon(holes,{pane:'mask',fill:false,color:'#7E6A50',weight:1.4,opacity:.6,interactive:false}).addTo(map);
+/* sea: engraved wave lines from the coastline westwards (computed from the region outline) */
+(function(){var ring=window.SEA;if(!ring)return;
+ var sr=L.svg({pane:'sea',padding:.5});L.polygon(ring,{renderer:sr,className:'sea-wash',stroke:false,fillColor:"#9FB9C6",fillOpacity:1,interactive:false,smoothFactor:2}).addTo(map);L.polygon(ring,{renderer:sr,className:'sea-waves',stroke:false,fillOpacity:1,interactive:false,smoothFactor:2}).addTo(map);
+ var cst=ring[0].slice(1,-3);L.polyline(cst,{renderer:sr,color:'#7E9AA6',weight:7,opacity:.35,interactive:false,lineJoin:'round'}).addTo(map);L.polyline(cst,{renderer:sr,color:'#3F5A66',weight:1.1,opacity:.75,interactive:false,lineJoin:'round'}).addTo(map);
+ map.whenReady(function(){var svgEl=sr._container;var ns='http://www.w3.org/2000/svg';var defs=document.createElementNS(ns,'defs');
+ defs.innerHTML='<pattern id="cqWaves" width="36" height="13" patternUnits="userSpaceOnUse"><path d="M0 7c4.5-3 9-3 13.5 0S22.5 10 27 7s6.8-2.2 9 -.8" fill="none" stroke="#46687A" stroke-width="1" stroke-linecap="round" opacity=".55"/></pattern>'+
+  '<linearGradient id="cqSeaFade" x1="1" y1="0" x2="0" y2="0"><stop offset="0" stop-color="#fff"/><stop offset=".7" stop-color="#fff" stop-opacity=".35"/><stop offset="1" stop-color="#fff" stop-opacity="0"/></linearGradient>';
+ svgEl.insertBefore(defs,svgEl.firstChild)})})();
+L.polygon([[[-10,-90],[-10,-40],[-50,-40],[-50,-90]]].concat(holes),{pane:'mask',stroke:false,fillColor:'#EADCC1',fillOpacity:.62,interactive:false,className:'mask-out'}).addTo(map);
+L.polygon(holes,{pane:'mask',fill:false,color:'#A0561A',weight:6,opacity:.12,interactive:false,lineJoin:'round'}).addTo(map);
+L.polygon(holes,{pane:'mask',fill:false,color:'#5A4632',weight:1.2,opacity:.7,dashArray:'7 3 1.5 3',interactive:false,lineJoin:'round'}).addTo(map);
 var REGION_BOX=L.latLngBounds([-29.05,-71.75],[-32.25,-69.95]);
 
 var geoLabels=[];
@@ -90,12 +109,12 @@ function drawGeo(){geoLabels.forEach(function(m){map.removeLayer(m)});geoLabels=
 /* Routes */
 var routeLayers={};
 ROUTES.forEach(function(r){var g=ROUTE_GEO[r.id];if(!g)return;var c=CATS[r.cat].color;r.km=g.km;
- var casing=L.polyline(g.coords,{pane:'routes',color:'#fff',weight:7,opacity:.85,lineCap:'round',lineJoin:'round',interactive:false,smoothFactor:1.5});
+ var casing=L.polyline(g.coords,{pane:'routes',color:'#FBF3E2',weight:7,opacity:.9,lineCap:'round',lineJoin:'round',interactive:false,smoothFactor:1.5});
  var line=L.polyline(g.coords,{pane:'routes',color:c,weight:3,opacity:.9,lineCap:'round',lineJoin:'round',smoothFactor:1.5});
  line.on('click',function(){toggleRoute(r.id,true)});
  routeLayers[r.id]={g:L.layerGroup([casing,line]).addTo(map),line:line,casing:casing};});
 function styleRoutes(){ROUTES.forEach(function(r){var L2=routeLayers[r.id];if(!L2)return;var on=activeRoute===r.id,any=!!activeRoute;
- L2.line.setStyle({weight:on?5:3,opacity:any&&!on?.22:.9});L2.casing.setStyle({weight:on?10:7,opacity:any&&!on?.3:.85});if(on){L2.casing.bringToFront();L2.line.bringToFront()}})}
+ L2.line.setStyle({weight:on?4.5:2.6,opacity:any&&!on?.25:.92,dashArray:on?null:'7 5'});L2.casing.setStyle({weight:on?9:6,opacity:any&&!on?.25:on?.95:.7});if(on){L2.casing.bringToFront();L2.line.bringToFront()}})}
 
 /* Markers */
 var cluster=L.markerClusterGroup({showCoverageOnHover:false,spiderfyOnMaxZoom:true,disableClusteringAtZoom:13,animate:!REDUCED,
@@ -337,7 +356,7 @@ document.addEventListener('keydown',function(e){if(e.key==='/'&&document.activeE
    Controls, credits, language
    ========================================================= */
 $('zin').onclick=function(){map.zoomIn(.75)};$('zout').onclick=function(){map.zoomOut(.75)};$('zreset').onclick=function(){if(selected)closeCard();fitRegion()};
-function renderCredits(){$('creditsPop').innerHTML='<b>'+t('creditsT')+'</b><p>'+t('credits')+'</p><p>Relieve y cartografía: Esri, USGS, NOAA, NASA, HERE, Garmin, © <a href="https://www.openstreetmap.org/copyright" target="_blank" rel="noopener">OpenStreetMap</a>. Rutas: OSRM. Mapa: <a href="https://leafletjs.com" target="_blank" rel="noopener">Leaflet</a>.</p>'}
+function renderCredits(){$('creditsPop').innerHTML='<b>'+t('creditsT')+'</b><p>'+t('credits')+'</p><p>Acuarela base: Stamen Design (CC BY 3.0), archivo Cooper Hewitt. Relieve y caminos: Esri, USGS, NOAA, NASA, HERE, Garmin, © <a href="https://www.openstreetmap.org/copyright" target="_blank" rel="noopener">OpenStreetMap</a>. Rutas: OSRM. Mapa: <a href="https://leafletjs.com" target="_blank" rel="noopener">Leaflet</a>.</p>'}
 $('creditsBtn').onclick=function(e){e.stopPropagation();var p=$('creditsPop');var o=!p.classList.contains('open');p.classList.toggle('open',o);this.setAttribute('aria-expanded',o)};
 document.addEventListener('click',function(e){if(!e.target.closest('.credits-bar'))$('creditsPop').classList.remove('open')});
 function applyLang(){document.documentElement.lang=lang;
@@ -356,8 +375,8 @@ window.addEventListener('resize',function(){clearTimeout(window.__rz);window.__r
 /* =========================================================
    Boot
    ========================================================= */
-applyLang();styleRoutes();zoomClass();layoutSheets();
-fitRegion(true);zoomClass();
+applyLang();styleRoutes();zoomClass();layoutSheets();placePaper();
+fitRegion(true);zoomClass();placePaper();updScale();
 var booted=false;function boot(){if(booted)return;booted=true;$('loader').classList.add('done');setTimeout(function(){if(!selected)toast(t('tapHint'),3200)},700)}
 terrain.once('load',function(){setTimeout(boot,150)});setTimeout(boot,3500);
 var m0=location.hash.match(/lugar-(\d+)/);if(m0)openPlace(+m0[1],{instant:true});

diff --git a/style.css b/style.css
@@ -26,12 +26,19 @@ a{color:inherit}
 @supports not ((backdrop-filter:blur(1px)) or (-webkit-backdrop-filter:blur(1px))){.glass{background:rgba(255,253,249,.97)}}
 
 /* ---------- Map ---------- */
-#map{position:fixed;inset:0;background:#EDE7DC}
+#map{position:fixed;inset:0;background:#EFE4CF}
 .leaflet-container{font-family:var(--f-sans);background:#EDE7DC}
-.tiles-relief{filter:sepia(.42) saturate(1.08) hue-rotate(-8deg) brightness(1.03)}
-.tiles-topo{filter:sepia(.32) saturate(.72) brightness(1.04) contrast(.94)}
-.leaflet-pane.hill-pane{mix-blend-mode:multiply;opacity:.5}
-.roads-pane{opacity:.5;filter:sepia(.6) saturate(.6)}
+.tiles-relief{filter:sepia(.55) saturate(.9) hue-rotate(-6deg) brightness(1.02)}
+/* Rustic base — watercolour paper retinted to the Norte Chico palette: sand/ochre land, dusty-blue sea */
+.tiles-wc{filter:sepia(.38) saturate(.66) hue-rotate(-6deg) contrast(.96) brightness(1.01)}
+.paper-grain{position:absolute;left:0;top:0;width:100vw;height:100vh;background:url(paper.jpg) 0 0/512px 512px repeat;will-change:transform}
+.paper-grain:after{content:"";position:absolute;inset:0;background:radial-gradient(130% 110% at 55% 45%,transparent 55%,rgba(120,84,40,.16) 100%)}
+.sea-waves{fill:url(#cqWaves)}
+.leaflet-pane.paper-pane{mix-blend-mode:multiply}
+
+.tiles-roads{opacity:.55;filter:sepia(.85) saturate(.55) hue-rotate(-10deg)}
+.leaflet-pane.hill-pane{mix-blend-mode:multiply;opacity:.58;filter:sepia(.55) saturate(.85) hue-rotate(-8deg) contrast(1.05)}
+
 .leaflet-fade-anim .leaflet-tile{will-change:opacity}
 .leaflet-tile-container{transition:none}
 
@@ -292,6 +299,19 @@ body.card-open .credits-bar{transform:translateX(calc(-1 * (var(--card-w) + 16px
 .valley-label{font-family:var(--f-display);color:#7A6852;font-size:10.5px;font-weight:700;letter-spacing:.32em;text-transform:uppercase;white-space:nowrap;pointer-events:none;text-shadow:0 0 3px #fff,0 0 8px #fff;transition:opacity 300ms}
 .z-near .valley-label,.z-hi .valley-label{opacity:0}
 
+/* ---------- Cartouche (compass rose + Diaguita fret) ---------- */
+.cartouche{position:fixed;z-index:1040;left:calc(var(--panel-w) + 16px + 32px);bottom:32px;display:flex;align-items:center;gap:14px;pointer-events:none;color:#3B3027;transition:left var(--t-slow) var(--ease-out),opacity var(--t-med);
+  filter:drop-shadow(0 0 6px rgba(246,238,220,.9))}
+.explore.collapsed~.cartouche{left:32px}
+.cartouche .rose{flex:none;transform-origin:50% 50%;animation:roseIn 1.2s var(--ease-out) .4s both}
+@keyframes roseIn{from{opacity:0;transform:rotate(-30deg) scale(.9)}to{opacity:1;transform:none}}
+.ct-txt{display:flex;flex-direction:column;gap:5px}
+.ct-k{font:600 10px/1 var(--f-display);letter-spacing:.32em;text-transform:uppercase;color:#7A6852}
+.ct-t{font:800 17px/1 var(--f-display);letter-spacing:-.02em;color:#2E241B}
+.greca{display:block;margin-top:3px;opacity:.85}
+.ct-s{display:flex;justify-content:space-between;width:var(--sw,120px);position:relative;padding-top:7px;font:600 9px/1 var(--f-sans);color:#5A4632;font-variant-numeric:tabular-nums}
+.ct-s i{position:absolute;left:0;top:0;width:100%;height:4px;border:1px solid #3B3027;background:linear-gradient(90deg,#3B3027 0 25%,transparent 25% 50%,#3B3027 50% 75%,transparent 75%)}
+.ct-s b{font-weight:600;transform:translateX(-40%)}.ct-s b:first-of-type{transform:none}.ct-s b:last-of-type{transform:translateX(30%)}
 /* ---------- Toast ---------- */
 .toast{position:fixed;z-index:2500;left:50%;bottom:var(--s6);transform:translate(-50%,12px);background:rgba(30,29,34,.92);color:#fff;padding:11px 18px;border-radius:var(--r-pill);font-size:13.5px;font-weight:500;box-shadow:var(--sh-2);opacity:0;pointer-events:none;transition:opacity var(--t-med) var(--ease-out),transform var(--t-med) var(--ease-out);white-space:nowrap}
 .toast.show{opacity:1;transform:translate(-50%,0)}
@@ -356,6 +376,7 @@ body.card-open .credits-bar{transform:translateX(calc(-1 * (var(--card-w) + 16px
   .hbtn.prev,.hbtn.next{opacity:1;width:34px;height:34px;margin-top:-17px}
   .toast{bottom:calc(92px + 56px)}
 }
+@media (max-width:760px){ .cartouche{left:auto;right:10px;bottom:auto;top:128px;gap:0} .cartouche .rose{width:52px;height:52px} .ct-txt{display:none} body.searching .cartouche,body.card-open .cartouche{opacity:0} }
 @media (min-width:761px){ .chips{display:none} .ex-tools .lang{display:none} }
 .lang-float{background:var(--glass);position:fixed;z-index:1050;top:var(--s4);right:var(--s4);padding:4px;box-shadow:var(--sh-2);transition:transform var(--t-slow) var(--ease-out)}
 .lang-float button{height:32px;min-width:40px}

diff --git a/index.html b/index.html
@@ -75,6 +75,29 @@
 <button class="reopen glass" id="reopen" aria-label="Mostrar panel" hidden><svg viewBox="0 0 24 24" width="20" height="20" fill="none" stroke="currentColor" stroke-width="2" stroke-linecap="round"><path d="M4 6h16M4 12h16M4 18h10"/></svg><span data-i18n="explore">Explorar</span></button>
 
 <!-- Map controls -->
+<div class="cartouche" aria-hidden="true">
+  <svg class="rose" viewBox="0 0 120 120" width="92" height="92">
+    <circle cx="60" cy="60" r="50" fill="none" stroke="#5A4632" stroke-width=".8" opacity=".55"/>
+    <circle cx="60" cy="60" r="44" fill="none" stroke="#5A4632" stroke-width=".5" stroke-dasharray="1 2.2" opacity=".6"/>
+    <g stroke="#5A4632" stroke-width=".6" opacity=".55"><path d="M60 6v8M60 106v8M6 60h8M106 60h8"/><path d="M21.8 21.8l4.3 4.3M93.9 93.9l4.3 4.3M98.2 21.8l-4.3 4.3M26.1 93.9l-4.3 4.3"/></g>
+    <g transform="rotate(45 60 60)" opacity=".7"><path d="M60 30 64 56 60 60 56 56z" fill="#B9A487"/><path d="M60 90 64 64 60 60 56 64z" fill="#B9A487"/><path d="M30 60 56 56 60 60 56 64z" fill="#B9A487"/><path d="M90 60 64 56 60 60 64 64z" fill="#B9A487"/></g>
+    <path d="M60 14 66 54 60 60z" fill="#A0561A"/><path d="M60 14 54 54 60 60z" fill="#C97A3D"/>
+    <path d="M60 106 66 66 60 60z" fill="#3B3027"/><path d="M60 106 54 66 60 60z" fill="#6B5A48"/>
+    <path d="M14 60 54 54 60 60z" fill="#6B5A48"/><path d="M14 60 54 66 60 60z" fill="#3B3027"/>
+    <path d="M106 60 66 54 60 60z" fill="#3B3027"/><path d="M106 60 66 66 60 60z" fill="#6B5A48"/>
+    <circle cx="60" cy="60" r="3.2" fill="#F6EEDC" stroke="#3B3027" stroke-width="1"/>
+    <text x="60" y="4.5" text-anchor="middle" font-family="Inter Tight,Inter,sans-serif" font-size="9" font-weight="800" fill="#A0561A" letter-spacing=".1em">N</text>
+  </svg>
+  <div class="ct-txt">
+    <span class="ct-k">Norte Chico · Chile</span>
+    <span class="ct-t">Región de Coquimbo</span>
+    <svg class="greca" viewBox="0 0 160 14" width="160" height="14"><defs><pattern id="cqGreca" width="20" height="14" patternUnits="userSpaceOnUse">
+      <path d="M0 12h2.5V9.5H5V7h2.5V4.5H10V2h0V4.5h2.5V7H15v2.5h2.5V12H20" fill="none" stroke="#A0561A" stroke-width="1.6" stroke-linejoin="miter"/>
+      <path d="M10 12V9.5" stroke="#3B3027" stroke-width="1.6"/><rect x="9" y="12.2" width="2" height="1.6" fill="#3B3027"/></pattern></defs>
+      <path d="M0 .6h160" stroke="#3B3027" stroke-width=".8"/><rect y="0" width="160" height="14" fill="url(#cqGreca)"/><path d="M0 13.6h160" stroke="#3B3027" stroke-width=".8"/></svg>
+    <span class="ct-s"><i></i><b>0</b><b>25</b><b>50 km</b></span>
+  </div>
+</div>
 <div class="seg lang lang-float glass" role="group" aria-label="Idioma / Language"><button data-lang="es" aria-pressed="true">ES</button><button data-lang="en" aria-pressed="false">EN</button></div>
 <div class="mapctl" id="mapctl">
   <div class="ctl-group glass">
@@ -88,12 +111,13 @@
 <article class="card" id="card" aria-live="polite" aria-hidden="true"></article>
 
 <!-- Credits -->
-<div class="credits-bar" id="credits"><button id="creditsBtn" aria-expanded="false"><span>© Fundación Herencia y Futuro · Esri · OpenStreetMap</span><svg viewBox="0 0 24 24" width="14" height="14" fill="none" stroke="currentColor" stroke-width="2" stroke-linecap="round"><circle cx="12" cy="12" r="9"/><path d="M12 11v5M12 8h.01"/></svg></button><div class="credits-pop" id="creditsPop"></div></div>
+<div class="credits-bar" id="credits"><button id="creditsBtn" aria-expanded="false"><span>© Fundación Herencia y Futuro · Stamen · Esri · OSM</span><svg viewBox="0 0 24 24" width="14" height="14" fill="none" stroke="currentColor" stroke-width="2" stroke-linecap="round"><circle cx="12" cy="12" r="9"/><path d="M12 11v5M12 8h.01"/></svg></button><div class="credits-pop" id="creditsPop"></div></div>
 <div class="toast" id="toast" role="status"></div>
 
 <script src="https://unpkg.com/leaflet@1.9.4/dist/leaflet.js"></script>
 <script src="https://unpkg.com/leaflet.markercluster@1.5.3/dist/leaflet.markercluster.js"></script>
 <script src="places.js"></script>
+<script src="sea.js"></script>
 <script src="icons.js"></script>
 <script src="app.js"></script>
 </body>
